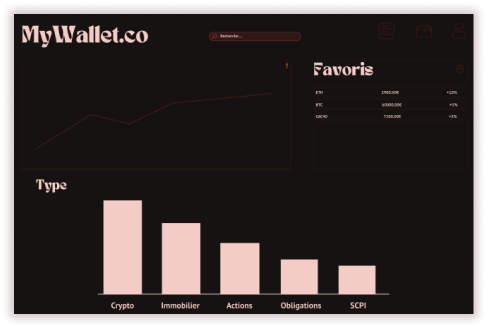
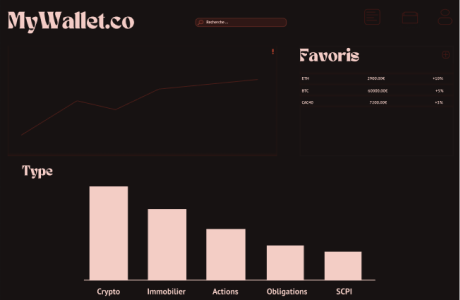
homepage en cours

diff --git a/lib/accueil.dart b/lib/accueil.dart
@@ -1,5 +1,6 @@
 import 'package:flutter/material.dart';
 import 'package:flutter_svg/flutter_svg.dart';
+import 'package:flutter_image_slideshow/flutter_image_slideshow.dart';
 import 'component/header.dart';
 
 class Accueil extends StatelessWidget {
@@ -27,17 +28,14 @@ class BodyAccueil extends StatelessWidget {
 
   @override
   Widget build(BuildContext context){
-    final Image presentation = Image.asset('assets/presentation1.png', width:MediaQuery.of(context).size.width * 0.80);
     return Container(
       color : const Color(0xFF181111),
       child : Column(
         children: [
           Row (
-            mainAxisAlignment : MainAxisAlignment.spaceBetween,
+            mainAxisAlignment: MainAxisAlignment.center,
             children: [
-              SvgPicture.asset('assets/arrowLeft.svg',width:MediaQuery.of(context).size.width * 0.05, height:MediaQuery.of(context).size.height * 0.05),
-              presentation,
-              SvgPicture.asset('assets/arrowRigh.svg',width:MediaQuery.of(context).size.width * 0.05, height:MediaQuery.of(context).size.height * 0.05),
+              SliderImage(),
             ],
           )
         ],
@@ -45,3 +43,73 @@ class BodyAccueil extends StatelessWidget {
     );
   }
 }
+
+class SliderImage extends StatelessWidget {
+  @override 
+  Widget build(BuildContext context){
+    return Container(
+      margin : EdgeInsets.only(top:150),
+      width:  MediaQuery.of(context).size.width*0.5,
+      height: MediaQuery.of(context).size.height * 0.5,
+      decoration: BoxDecoration(
+        boxShadow: [
+          BoxShadow(
+            color: Color(0xFF1F1513), 
+            blurRadius: 10,
+            offset: Offset(5, 5),
+          ),
+        ],
+      ),
+      child:ImageSlideshow(
+        width: double.infinity,
+        height: MediaQuery.of(context).size.height *0.5,
+        initialPage:0,
+        indicatorColor: Color(0xFFAC4D39),
+        indicatorBackgroundColor: Color(0xFF4E1511),
+        children:[
+          Image.asset('assets/presentation1.png'),
+          Image.asset('assets/presentation2.png'),
+          Image.asset('assets/presentation3.png'),
+        ],
+        autoPlayInterval: 5000,
+        isLoop : true,
+      ),
+    );
+  }
+}
+
+/*
+
+Widget ImageShadow(String path, BuildContext context){
+    return DropShadowImage(
+      offset: Offset(30,30),
+      scale: 1,
+      blurRadius: 12,
+      borderRadius: 20,
+      image: Image.asset(path),
+    );
+  }
+
+
+return Container(
+      alignment: Alignment.center,
+      margin : EdgeInsets.only(right:50,),
+      padding : EdgeInsets.only(right:50,),
+      width : MediaQuery.of(context).size.width*0.5,
+      height : MediaQuery.of(context).size.height * 0.5,
+      decoration: BoxDecoration(
+        boxShadow: [
+          BoxShadow(
+            color: Color(0xFF4E1511), 
+            blurRadius: 10,
+            offset: Offset(5, 5),
+          ),
+        ],
+      ),
+      child: Image.asset(
+        width : MediaQuery.of(context).size.width*0.45,
+        height : MediaQuery.of(context).size.height * 0.45,
+        path,
+        fit: BoxFit.contain,
+      ),
+    );*/
